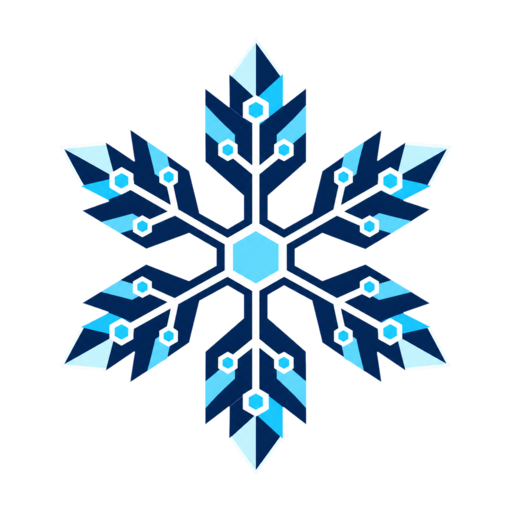
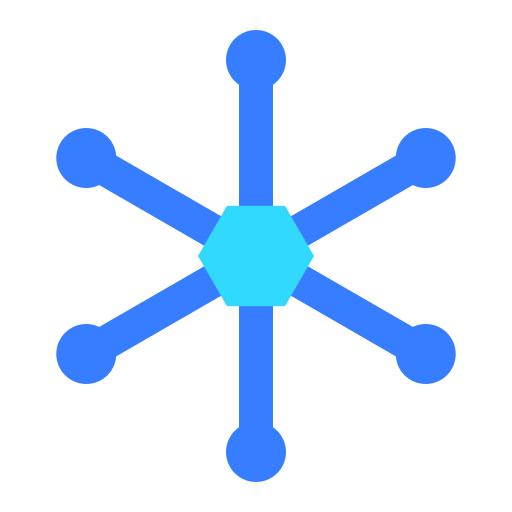
design(site): simplify the brand mark, and give it a source (#210)
The mark was a 1254px PNG from an image model, with no vector behind it:
it could be re-prompted but not edited, and the smaller sizes were
downscales of a picture rather than renderings of a drawing.

Two faults, neither visible in the file itself. Its dominant colour
`#022759` measured 1.36:1 against the `#040a13` navigation the site puts
the mark on, so the largest part of the logo vanished exactly where it
was used; and at 32px its roughly forty facets dissolved into a smudge.

`site/assets/frostbuild-mark.svg` is now the source and every PNG a
rendering of it via `scripts/render_mark.py`. Blue carries the
silhouette because cyan is 1.68:1 on white; cyan is only the enclosed
core. `tests/test_site_mark.py` asserts the three constraints -- stroke
weight the favicon can draw, 3:1 against both backgrounds, no colour
outside the stylesheet's tokens -- and re-renders the PNGs to prove they
still match. CI installs cairosvg so that check runs rather than skips.

Changed region(s): [[0.0938, 0.0625, 0.9062, 0.9375]]

diff --git a/tests/test_site_mark.py b/tests/test_site_mark.py
@@ -1,0 +1,190 @@
+"""The brand mark stays legible where it is actually used.
+
+The mark this replaced was a 1254px PNG from an image model: about forty
+facets and thirteen scattered nodes, with no vector source, so it could be
+re-prompted but not edited. Two things were wrong with it and neither was
+visible in the file itself.
+
+Its dominant colour was a dark navy, `#022759`, measuring **1.36:1** against
+the `#040a13` navigation the site puts the mark on. The largest part of the
+logo was effectively invisible exactly where it was placed. And at 32px — the
+favicon, the smallest and by far the most-seen rendering — the detail
+dissolved into a smudge.
+
+Both are properties of the artwork that no other test in this repository would
+notice, and both are the kind of thing that comes back the next time someone
+adjusts the mark to taste. So they are asserted rather than described:
+contrast is computed against the backgrounds the mark is really composited on,
+and the PNGs are checked to still be renderings of the SVG rather than files
+that drifted from it.
+
+`python3 -m unittest tests.test_site_mark`
+"""
+
+import pathlib
+import re
+import unittest
+
+REPO = pathlib.Path(__file__).resolve().parent.parent
+SITE = REPO / "site"
+MARK = SITE / "assets" / "frostbuild-mark.svg"
+
+# The two backgrounds the mark is composited on. The site's navigation is the
+# one the previous mark failed against; white stands in for GitHub's light
+# theme, where the README and the social preview are read.
+DARK_NAV = (0x04, 0x0A, 0x13)
+WHITE = (0xFF, 0xFF, 0xFF)
+
+# WCAG's minimum for a graphic that carries meaning. A logo is not text, so
+# 4.5:1 is not required of it — but 3:1 is the line below which a shape stops
+# being reliably distinguishable from what is behind it.
+MINIMUM_GRAPHIC_CONTRAST = 3.0
+
+# One colour is allowed to fall under that, and only against one background.
+# An exception that says why is the difference between an exception and a
+# hole, so the reason is here rather than in a commit message.
+CONTRAST_EXCEPTIONS = {
+    # The core, and the only shape the silhouette fully encloses. Cyan is
+    # 1.68:1 on white, so on its own it would be a poor edge against a light
+    # theme — but it never has one: six blue spokes converge on it and the
+    # blue defines its outline from every side. What the rule protects is a
+    # shape having to be told apart from the background, which this one does
+    # not do. It is the reason the mark is two-tone at all, and dropping it
+    # would leave a flat monochrome asterisk with no node at the root.
+    ((0x31, 0xD9, 0xFF), WHITE): "enclosed by the blue silhouette on every side",
+}
+
+# The favicon is 32px, so a stroke of N units on the 512 viewBox lands at
+# N/16 device pixels. Below about two, antialiasing turns a line into a grey
+# suggestion of one — which is what happened to the mark this replaced.
+MINIMUM_FAVICON_PIXELS = 2.0
+VIEWBOX = 512
+FAVICON = 32
+
+
+def relative_luminance(rgb):
+    channels = []
+    for value in rgb:
+        v = value / 255
+        channels.append(v / 12.92 if v <= 0.04045 else ((v + 0.055) / 1.055) ** 2.4)
+    red, green, blue = channels
+    return 0.2126 * red + 0.7152 * green + 0.0722 * blue
+
+
+def contrast(a, b):
+    high, low = sorted((relative_luminance(a), relative_luminance(b)), reverse=True)
+    return (high + 0.05) / (low + 0.05)
+
+
+def parse_hex(value):
+    value = value.lstrip("#")
+    return tuple(int(value[i : i + 2], 16) for i in (0, 2, 4))
+
+
+def painted_colours(svg):
+    """Colours the mark actually paints with.
+
+    Read from `fill` and `stroke` attributes rather than from anywhere a hex
+    code appears: the SVG's own comment quotes the colours it is arguing
+    about, including the one that failed, and a test that scraped those would
+    report the mark for mentioning its history.
+    """
+    return {
+        parse_hex(value)
+        for value in re.findall(r'(?:fill|stroke)="(#[0-9a-fA-F]{6})"', svg)
+    }
+
+
+class SiteMarkTest(unittest.TestCase):
+    def setUp(self):
+        self.svg = MARK.read_text()
+
+    def test_the_svg_is_the_source_the_pngs_are_rendered_from(self):
+        # Every PNG is a build product. If one of them stopped matching, the
+        # mark in the browser is not the mark in the repository, and the file
+        # a designer would edit is no longer the file anyone sees.
+        try:
+            import cairosvg  # noqa: F401
+        except ImportError:
+            self.skipTest("cairosvg is not installed; run scripts/render_mark.py")
+
+        import sys
+
+        sys.path.insert(0, str(REPO / "scripts"))
+        import render_mark
+
+        stale = [
+            relative
+            for relative, size in render_mark.OUTPUTS.items()
+            if (REPO / relative).read_bytes() != render_mark.render(REPO, size)
+        ]
+        self.assertEqual(stale, [], "re-run scripts/render_mark.py")
+
+    def test_nothing_in_the_mark_disappears_into_the_background(self):
+        # The failure this exists for: a colour that looks right in a design
+        # tool on white, and is invisible on the navigation the site puts it
+        # on. Checked against both, because the mark is one file serving both.
+        colours = painted_colours(self.svg)
+        self.assertTrue(colours, "the mark declares no colours")
+
+        for colour in sorted(colours):
+            spelling = "#%02x%02x%02x" % colour
+            for background, name in ((DARK_NAV, "the site's dark navigation"),
+                                     (WHITE, "a light theme")):
+                if (colour, background) in CONTRAST_EXCEPTIONS:
+                    continue
+                ratio = contrast(colour, background)
+                with self.subTest(colour=spelling, background=name):
+                    self.assertGreaterEqual(
+                        ratio,
+                        MINIMUM_GRAPHIC_CONTRAST,
+                        f"{spelling} measures {ratio:.2f}:1 against {name}; the "
+                        f"mark this replaced failed here at 1.36:1",
+                    )
+
+    def test_every_contrast_exception_still_names_a_colour_in_use(self):
+        # An exemption that outlives the shape it was written for excuses
+        # nothing and hides the next thing that needs excusing.
+        painted = painted_colours(self.svg)
+        for (colour, _), reason in CONTRAST_EXCEPTIONS.items():
+            with self.subTest(colour="#%02x%02x%02x" % colour):
+                self.assertIn(colour, painted, f"exempted for: {reason}")
+
+    def test_no_stroke_is_thinner_than_the_favicon_can_render(self):
+        # A mark is drawn at 512 and seen at 32. A weight chosen at the size
+        # it is drawn is a weight chosen for the rendering nobody looks at.
+        widths = [float(w) for w in re.findall(r'stroke-width="([0-9.]+)"', self.svg)]
+        self.assertTrue(widths, "the mark declares no stroke widths")
+        for width in widths:
+            pixels = width * FAVICON / VIEWBOX
+            with self.subTest(stroke_width=width):
+                self.assertGreaterEqual(
+                    pixels,
+                    MINIMUM_FAVICON_PIXELS,
+                    f"a {width}-unit stroke is {pixels:.2f}px in the favicon",
+                )
+
+    def test_the_mark_uses_the_site_palette_and_adds_nothing_to_it(self):
+        # A brand mark that invents its own blue is a second palette nobody
+        # maintains. Every colour here has to be a token in the stylesheet.
+        stylesheet = (SITE / "styles.css").read_text()
+        tokens = {
+            parse_hex(value)
+            for value in re.findall(r"--[a-z-]+:\s*(#[0-9a-fA-F]{6})", stylesheet)
+        }
+        for colour in painted_colours(self.svg):
+            with self.subTest(colour="#%02x%02x%02x" % colour):
+                self.assertIn(colour, tokens, "not a token in site/styles.css")
+
+    def test_the_mark_stays_something_a_reader_can_take_in(self):
+        # Not a measure of beauty — a ceiling on element count. The mark this
+        # replaced had roughly forty facets, which is what made it a picture
+        # rather than a mark and what made it dissolve at favicon size.
+        shapes = len(
+            re.findall(r"<(path|circle|polygon|rect|line|ellipse)\b", self.svg)
+        )
+        self.assertLessEqual(shapes, 20, "the mark is drifting back to a picture")
+
+
+if __name__ == "__main__":
+    unittest.main()

diff --git a/scripts/render_mark.py b/scripts/render_mark.py
@@ -1,0 +1,80 @@
+#!/usr/bin/env python3
+"""Render every brand PNG from site/assets/frostbuild-mark.svg.
+
+The mark used to be a 1254px PNG produced by an image model, which made the
+largest asset the only source: it could be re-prompted but not edited, and the
+smaller sizes were downscales of a picture rather than renderings of a drawing.
+This makes the SVG the source and every PNG a build product of it.
+
+    python3 scripts/render_mark.py            # rewrite the PNGs
+    python3 scripts/render_mark.py --check    # fail if any is stale
+
+`--check` is what CI wants: it renders to memory and compares, so a change to
+the SVG that was never rendered cannot reach main looking applied.
+
+Needs cairosvg. It is not in any requirements file because nothing else here
+needs it and the PNGs are checked in — this runs when the mark changes, which
+is rarely.
+"""
+
+from __future__ import annotations
+
+import argparse
+import pathlib
+import sys
+
+# Every PNG the site and README reference, and the size each is used at.
+# `frostbuild-mark.png` is the general-purpose master; the rest are the exact
+# sizes their consumers ask for, rendered rather than downscaled so each gets
+# its own antialiasing pass.
+OUTPUTS = {
+    "site/assets/frostbuild-mark.png": 1024,
+    "site/assets/frostbuild-mark-512.png": 512,
+    "site/assets/apple-touch-icon.png": 180,
+    "site/favicon.png": 32,
+}
+
+SOURCE = "site/assets/frostbuild-mark.svg"
+
+
+def render(root: pathlib.Path, size: int) -> bytes:
+    import cairosvg
+
+    return cairosvg.svg2png(
+        url=str(root / SOURCE), output_width=size, output_height=size
+    )
+
+
+def main() -> int:
+    parser = argparse.ArgumentParser(description=__doc__)
+    parser.add_argument(
+        "--check",
+        action="store_true",
+        help="compare instead of writing; exit 1 if a PNG is out of date",
+    )
+    args = parser.parse_args()
+
+    root = pathlib.Path(__file__).resolve().parent.parent
+    stale = []
+    for relative, size in OUTPUTS.items():
+        want = render(root, size)
+        path = root / relative
+        if args.check:
+            if not path.exists() or path.read_bytes() != want:
+                stale.append(relative)
+            continue
+        path.write_bytes(want)
+        print(f"wrote {relative} ({size}px, {len(want)} bytes)")
+
+    if args.check:
+        if stale:
+            print("stale, re-run scripts/render_mark.py:", file=sys.stderr)
+            for relative in stale:
+                print(f"  {relative}", file=sys.stderr)
+            return 1
+        print(f"all {len(OUTPUTS)} PNGs match {SOURCE}")
+    return 0
+
+
+if __name__ == "__main__":
+    raise SystemExit(main())

diff --git a/site/README.md b/site/README.md
@@ -13,23 +13,35 @@ repository; the Markdown remains the source of truth.
 and padding, with separately named tokens for the large page rhythm. Run
 `python3 -m unittest tests.test_site_css` after changing these foundations.
 
-Brand assets:
+## The mark
 
-- `assets/frostbuild-mark.png` — 1254 px transparent master;
+`assets/frostbuild-mark.svg` is the mark. Every PNG beside it is a rendering
+of that file, produced by `scripts/render_mark.py`:
+
+- `assets/frostbuild-mark.png` — 1024 px master;
 - `assets/frostbuild-mark-512.png` — navigation, README and social preview;
 - `assets/apple-touch-icon.png` — 180 px touch icon;
 - `favicon.png` — 32 px browser icon.
 
-The master was generated with OpenAI's built-in image generation on 28 July
-2026, then its solid chroma-key background was converted to alpha and the
-smaller assets were derived from that project-bound copy. Prompt:
+Edit the SVG, run `python3 scripts/render_mark.py`, commit the lot.
+`--check` renders to memory and compares instead of writing, so a change to
+the SVG that was never rendered cannot land looking applied.
 
-> Create a crisp modern brand mark for FrostBuild: a symmetrical six-point
-> frost crystal whose branches also read as a dependency graph, with small
-> hexagonal nodes connected by clean white lines. Use deep navy, electric cyan
-> and pale ice-blue geometric facets, no text, no letters, no mockup, centered
-> with generous padding, on a perfectly flat solid chroma-key magenta
-> background (#FF00FF).
+It is a six-point ice crystal that also reads as a dependency graph: one root,
+six edges, a node at every leaf. Three things about it are not taste, and
+`tests/test_site_mark.py` asserts each rather than trusting the eye — nothing
+may be thinner than the favicon can draw, nothing may fall below 3:1 against
+either the site's dark navigation or a light theme, and every colour must
+already be a token in `styles.css`.
+
+The mark this replaced was a 1254 px PNG from an image model, with no vector
+source: it could be re-prompted but not edited, and the smaller sizes were
+downscales of a picture rather than renderings of a drawing. It had two faults
+that the file itself could not show. Its dominant colour was a dark navy
+measuring 1.36:1 against the `#040a13` navigation the site puts the mark on,
+so the largest part of the logo was invisible exactly where it was used; and
+at 32 px its roughly forty facets dissolved into a smudge. Both are now
+things a test fails on.
 
 `.github/workflows/pages.yml` publishes this exact directory through
 GitHub's official SHA-pinned Pages actions.
